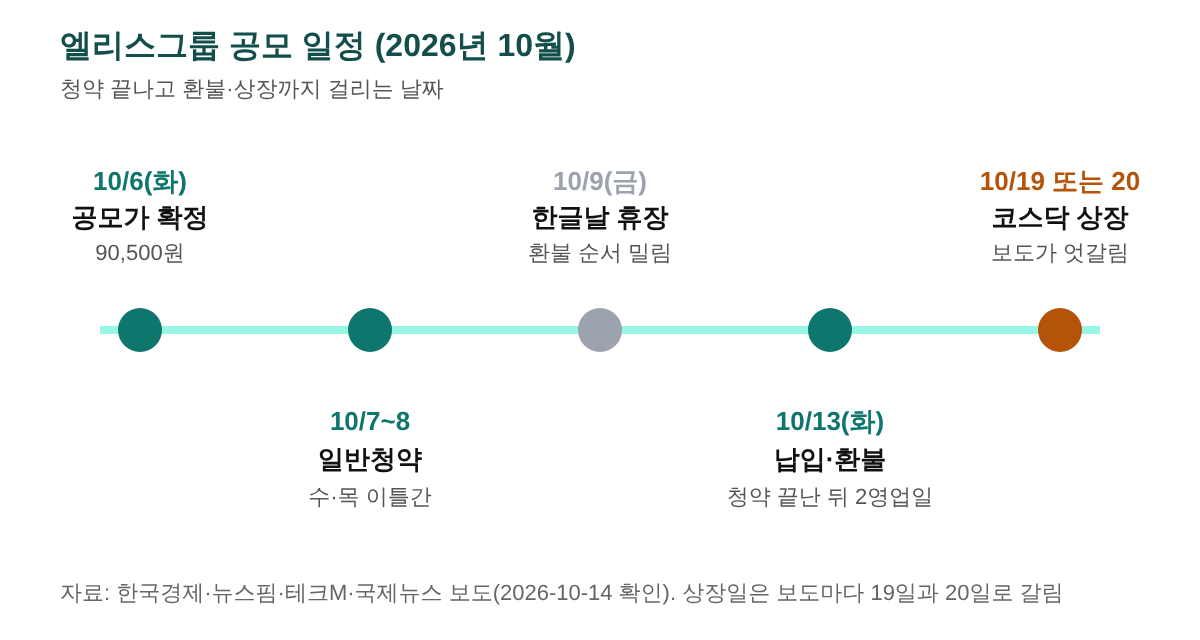
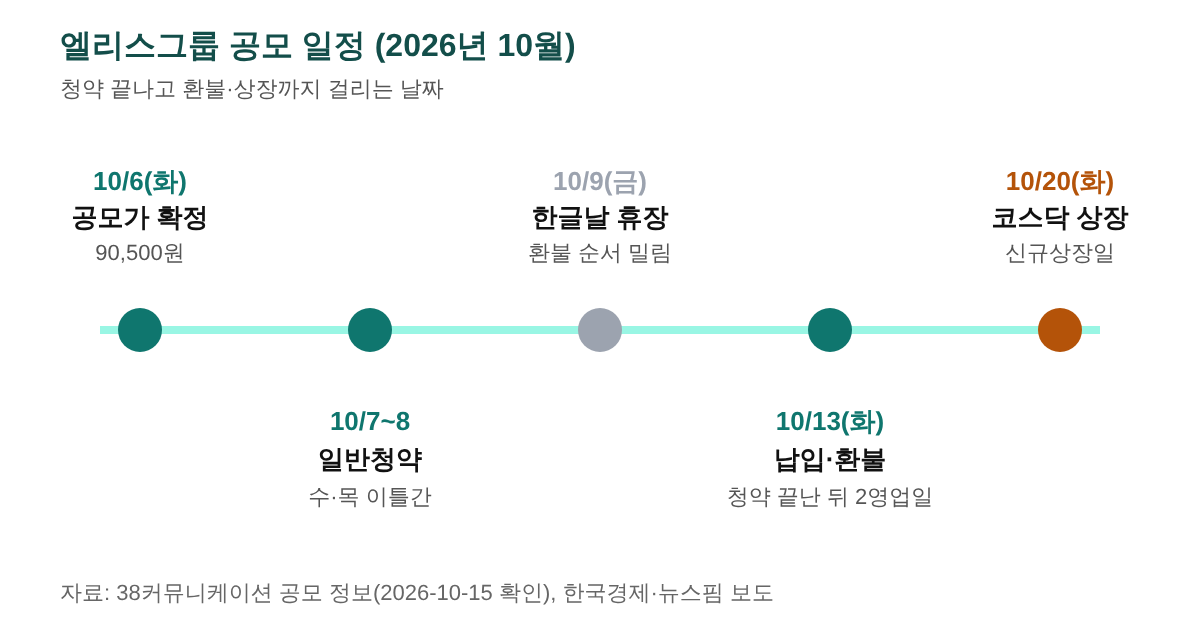
150편 자료 반영: 상장일 10/20 확정, gate_pass:true, 확약 13.7%·공모구조 추가, 그림1 갱신
Claude-Session: https://claude.ai/code/session_01QDoVdBb5L6XnLaVWh6Ynhv

Changed region(s): [[0.0925, 0.9062, 0.8942, 0.9375], [0.8017, 0.25, 0.9558, 0.3125], [0.8325, 0.375, 0.9558, 0.4062]]

diff --git a/stock_drafts/ellis-group-ipo-subscription-result.md b/stock_drafts/ellis-group-ipo-subscription-result.md
@@ -23,32 +23,21 @@ primary_source: |
   - 일반청약 408대 1, 증거금 약 10조2,599억원(보도에 따라 10조3,000억원 반올림), 배정 물량 555,500주에 청약 2억2,673만7,440주: 뉴스프라임·뉴스핌·디지털데일리 계열 일치. 408은 2억2,673만7,440 ÷ 55만5,500 = 408.2로 검산됨.
   - 증권사별 청약 건수 미래에셋 229,879건·삼성 59,539건, 균등 예상 0.97주·0.93주: CBC뉴스 청약 2일차 마감 기사 단일 출처(원문 미열람, 검색 요약). 합계 289,418건이 "약 29만 건" 보도와 일치.
   - 납입·환불 10월 13일: 국제뉴스·검색 요약 다수 일치.
-  - 상장일: 한국경제·국제뉴스 등은 10월 19일, 테크M·뉴스토마토 등은 10월 20일로 엇갈림. 확정 못 함(user_todo).
+  - 상장일: 언론은 19일(한국경제·국제뉴스)과 20일(테크M·뉴스토마토)로 갈렸으나, 사용자가 올린 38커뮤니케이션 화면 캡처(2026-10-15)에서 신규상장일 2026.10.20, 납입일·환불일·배정공고일 2026.10.13, 수요예측 9/23~10/1, 청약 10/7~8, 총공모 2,222,000주(기관 75% 1,666,500주 / 일반 25% 555,500주), 일반청약 증거금율 50%, 기관경쟁률 388.84:1, 의무보유확약 13.70%를 확인함. 최소 청약 주수 칸은 '-'로 비어 있어 본문에서 쓰지 않음.
   - 신규상장 첫날 60~400%: 뉴스핌·경향신문·SBS Biz 등 다수 일치(10월 4일자 초안 검증값 재사용, 2023-06-26 시행). 증거금률 50%와 균등 50% 이상 규칙: 공모주 청약 증거금 글의 검증값 재사용.
   - 비례 경쟁률 약 816대 1: 38커뮤니케이션 표기 816:1과, 청약 주식 수÷비례 물량(555,500주의 50%)으로 직접 계산한 816.3이 일치.
-  - 최소 청약 주수·최소 증거금은 보도가 엇갈려(CBC 제목 최소 증거금 90만5000원 / 기존 정리 10주 45만2,500원) 본문에서 단정하지 않음.
-기준일: 2026년 10월 14일 기준
+  - 최소 청약 주수·최소 증거금은 38커뮤니케이션 표에 값이 없고 보도도 엇갈려 본문에서 단정하지 않음(20주 이상 계산은 예시 주수일 뿐).
+기준일: 2026년 10월 15일 기준
 refresh_due: 2026-10-21
-refresh_reason: "상장일(10/19 또는 20) 이후 첫날 시초가·종가 결과로 글을 바꿔야 함. 상장 전 문구가 지나면 틀림."
+refresh_reason: "상장일(10/20) 이후 첫날 시초가·종가 결과로 글을 바꿔야 함. 상장 전 문구가 지나면 틀림."
 tags: 엘리스그룹 공모주, 엘리스그룹 청약, 엘리스그룹 상장일, 엘리스그룹 환불일, 엘리스그룹 공모가, 공모주 균등배정, 공모주 비례배정, 청약증거금 계산, 코스닥 신규상장, 2026 공모주
-gate_pass: false
+gate_pass: true
 gate_pass_note: |
-  게이트1 49,100회, 게이트2 v4 통과, 게이트3 증거금·배정 계산표와 그림 2장 확보. 게이트4에서 상장일이 언론 사이에 10월 19일과 20일로 엇갈려(양쪽 모두 복수 매체) 확정하지 못했다. 최소 청약 주수도 보도가 갈린다. 상장일은 이 글의 핵심 날짜라 단정하지 않고 보류한다.
-user_todo:
-  why: 엘리스그룹 상장일이 기사마다 10월 19일과 20일로 달라 어느 쪽이 맞는지 정하지 못했습니다. 최소 청약 주수도 보도가 갈립니다.
-  steps:
-    - "https://www.38.co.kr/html/fund/?o=v&no=2316 열기 → 화면 중간 '공모청약일정' 표에서 '신규상장일' 줄 찾기 → 그 표 전체를 캡처"
-    - "같은 화면 아래쪽 '청약정보'에서 '최소청약주식수'와 '청약증거금율' 줄이 함께 보이게 캡처(한 장에 안 들어가면 두 장)"
-  must_show:
-    - "신규상장일 날짜(19일인지 20일인지)"
-    - "최소청약주식수와 청약증거금율(50%)"
-  minutes: 3
-  device: 휴대폰 가능
-  if_skipped: 안 하면 발행하지 못합니다. 급하면 상장일을 '19일 또는 20일'로 쓴 채 최소 청약 주수 문장만 빼고 발행할 수 있지만, 상장일이 지나면 어차피 갱신이 필요합니다.
+  게이트1 49,100회, 게이트2 v4 통과, 게이트3 증거금·배정 계산표와 그림 2장, 게이트4는 사용자가 올린 38커뮤니케이션 캡처(2026-10-15)로 상장일 10월 20일과 환불일 10월 13일을 확정했다. 언론 사이에 갈렸던 19일 표기는 폐기. 증권사별 청약 건수·균등 주수는 CBC뉴스 단일 출처이므로 발행 전 증권사 앱 공지와 대조하면 좋다(선택).
 figure_plan: |
   2장. 그림1은 청약부터 상장까지 날짜 순서(일정), 그림2는 증권사별 청약 건수와 균등 배정 주수 비교(크기 비교). 증거금·비례 배정 계산은 숫자를 정확히 읽어야 해서 표로 둠.
 self_check: |
-  [2026-10-14 gate_pass:false, v3 이슈 유형(4주 안 이벤트: 공모주 청약·상장)]
+  [2026-10-14 작성, 2026-10-15 사용자 38커뮤니케이션 캡처로 gate_pass:true, v3 이슈 유형(4주 안 이벤트: 공모주 청약·상장)]
   후보 경위: 이슈 스캔(10월 공모주, 삼성전자 3분기 확정실적, 금통위) 후 8개 실측: 엘리스그룹 공모주 49,100 / TIGER 미국배당다우존스 27,800(127편이 다룸) / 금통위 일정 2,930(기존 글 있음) / 공모주 청약 일정 1,490 / 연금저축 세액공제 3,260(기존 글과 겹침) / 기준금리 발표일 180·삼성전자 3분기 실적 20·코스피 배당락일 20 FAIL. 최고 검색량이면서 지금 이슈(상장 직전)인 엘리스그룹 채택.
   카니벌라이제이션: 일정표 글(10월 공모주 일정, 아직 발행 전)은 15곳 달력, 이 글은 한 종목 결과와 배정 계산. 증거금 계산 글(44편)은 공식 중심이라 이 글은 실제 경쟁률로 계산. 내부 링크 3개(44·35·18편, 전부 published). 발행 전 글로는 링크하지 않음.
   119편 갱신: 공포탐욕지수 현재 값을 1차 출처로 확인하지 못해(CNN WebFetch 불가, WebSearch에 10월 값 없음) 이번에는 보류. 98편 달러인덱스도 전날 보류 상태 유지.
@@ -60,7 +49,7 @@ self_check: |
   AI 티 점검: em대시 0개, 다만 0회, mark 4개, FAQ 5개(직전 149 5개와 같음 → 한 번 연속, 직전 2편 148이 달라 규칙 충족), FAQ 헤딩 "청약 결과 보고 나서 떠오르는 물음들"(신규), 요약박스 청록 "🔎 결과 숫자부터"(신규).
 ---
 
-<p style="font-size:13px;color:#888;">최종 검토일: 2026-10-14</p>
+<p style="font-size:13px;color:#888;">최종 검토일: 2026-10-15</p>
 
 <p>엘리스그룹 청약에 넣어 두고 결과가 궁금한 분이 많을 텐데요. 일반청약 경쟁률은 408대 1이었고 공모가는 희망 범위 맨 위인 90,500원으로 확정됐어요.</p>
 
@@ -69,7 +58,7 @@ self_check: |
   <ul style="margin:10px 0 0 0;padding-left:20px;line-height:1.8;">
     <li>기관 수요예측은 388.8대 1, 일반청약 증거금은 약 10조 2,599억 원이 몰렸어요.</li>
     <li>균등 배정 예상 주수는 미래에셋증권 0.97주, 삼성증권 0.93주예요.</li>
-    <li>납입과 환불은 10월 13일이고, 상장일은 기사마다 19일과 20일로 갈려요.</li>
+    <li>납입과 환불은 10월 13일, 코스닥 상장은 10월 20일이에요.</li>
   </ul>
 </div>
 
@@ -94,6 +83,8 @@ self_check: |
     <tr><td style="border:1px solid #ddd;padding:8px;">확정 공모가</td><td style="border:1px solid #ddd;padding:8px;">90,500원(희망 범위 70,400~90,500원의 상단)</td></tr>
     <tr><td style="border:1px solid #ddd;padding:8px;">공모금액 / 상장 후 시가총액</td><td style="border:1px solid #ddd;padding:8px;">약 2,011억 원 / 약 1조 54억 원</td></tr>
     <tr><td style="border:1px solid #ddd;padding:8px;">기관 수요예측</td><td style="border:1px solid #ddd;padding:8px;">388.8대 1, 기관 2,367곳 참여</td></tr>
+    <tr><td style="border:1px solid #ddd;padding:8px;">의무보유확약 신청</td><td style="border:1px solid #ddd;padding:8px;">13.70%(<a href="https://www.38.co.kr/html/fund/?o=v&amp;no=2316" target="_blank" rel="noopener">38커뮤니케이션</a> 공모 정보)</td></tr>
+    <tr><td style="border:1px solid #ddd;padding:8px;">총 공모 주식 / 일반청약 배정</td><td style="border:1px solid #ddd;padding:8px;">2,222,000주 / 555,500주(25%)</td></tr>
     <tr><td style="border:1px solid #ddd;padding:8px;">일반청약 경쟁률</td><td style="border:1px solid #ddd;padding:8px;">408대 1</td></tr>
     <tr><td style="border:1px solid #ddd;padding:8px;">일반청약 증거금</td><td style="border:1px solid #ddd;padding:8px;">약 10조 2,599억 원(<a href="https://www.newsprime.co.kr/news/article/?no=750517" target="_blank" rel="noopener">뉴스프라임</a>)</td></tr>
     <tr><td style="border:1px solid #ddd;padding:8px;">청약 건수</td><td style="border:1px solid #ddd;padding:8px;">약 29만 건(미래에셋증권 229,879건 + 삼성증권 59,539건)</td></tr>
@@ -132,7 +123,7 @@ self_check: |
 
 <p>청약 이후에는 납입과 환불, 상장 순서로 진행되고 환불일은 10월 13일이에요. 10월 9일 한글날이 휴장이라 청약이 끝난 8일(목) 뒤 영업일이 12일(월), 13일(화)로 이어졌기 때문이에요.</p>
 
-<figure style="margin:24px 0;"><img src="https://raw.githubusercontent.com/leoleo0813/blog-automation/main/assets/figures/ellis-group-ipo-subscription-result-1.png" alt="엘리스그룹 공모 일정 타임라인. 10월 6일 공모가 확정, 7~8일 일반청약, 9일 한글날 휴장, 13일 납입 환불, 19일 또는 20일 코스닥 상장" style="max-width:100%;"><figcaption style="font-size:13px;color:#888;">자료: 한국경제·뉴스핌·테크M·국제뉴스 보도, 2026년 10월 14일 확인</figcaption></figure>
+<figure style="margin:24px 0;"><img src="https://raw.githubusercontent.com/leoleo0813/blog-automation/main/assets/figures/ellis-group-ipo-subscription-result-1.png" alt="엘리스그룹 공모 일정 타임라인. 10월 6일 공모가 확정, 7~8일 일반청약, 9일 한글날 휴장, 13일 납입 환불, 20일 코스닥 상장" style="max-width:100%;"><figcaption style="font-size:13px;color:#888;">자료: 38커뮤니케이션 공모 정보, 한국경제·뉴스핌 보도, 2026년 10월 15일 기준</figcaption></figure>
 
 <h3>1단계. 배정 결과와 증거금 환불</h3>
 
@@ -140,13 +131,13 @@ self_check: |
 
 <h3>2단계. 상장일 확인</h3>
 
-<p>상장일은 보도가 갈려요. 한국경제와 국제뉴스는 10월 19일, 테크M과 뉴스토마토는 <a href="https://www.techm.kr/news/articleView.html?idxno=155998" target="_blank" rel="noopener">10월 20일</a>이라고 전했어요.</p>
+<p>상장일은 10월 20일(화)이에요. <a href="https://www.38.co.kr/html/fund/?o=v&amp;no=2316" target="_blank" rel="noopener">38커뮤니케이션</a> 공모 정보의 신규상장일 칸과 <a href="https://www.techm.kr/news/articleView.html?idxno=155998" target="_blank" rel="noopener">테크M 보도</a>가 같아요.</p>
 
-<p>환불일에서 영업일 4일을 세면 19일이지만 단정하지 않을게요. 정확한 날짜는 <a href="https://kind.krx.co.kr" target="_blank" rel="noopener">한국거래소 KIND</a>의 공모 일정에서 볼 수 있어요.</p>
+<p>일부 기사에는 19일로 적혀 있었는데 이 글은 20일을 기준으로 해요. 거래소 최종 공지는 <a href="https://kind.krx.co.kr" target="_blank" rel="noopener">한국거래소 KIND</a>에서 볼 수 있어요.</p>
 
 <h3>3단계. 상장 후 매매</h3>
 
-<p>상장하면 코스닥에서 일반 종목처럼 사고팔 수 있고, 의무보유확약이 걸린 기관 물량은 약속한 기간 동안 팔 수 없어요. 확약 제도는 <a href="https://sensitiveboss3.tistory.com/entry/ipo-mandatory-holding-allocation-2026" target="_blank" rel="noopener">IPO와 의무보유확약 글</a>에 정리했어요.</p>
+<p>상장하면 코스닥에서 일반 종목처럼 사고팔 수 있고, 의무보유확약이 걸린 기관 물량은 약속한 기간 동안 팔 수 없어요. 이번 공모의 확약 신청 비율은 13.70%예요. 확약 제도는 <a href="https://sensitiveboss3.tistory.com/entry/ipo-mandatory-holding-allocation-2026" target="_blank" rel="noopener">IPO와 의무보유확약 글</a>에 정리했어요.</p>
 
 <h2 id="sec-4" style="scroll-margin-top:72px;border-left:6px solid #0f766e;padding-left:12px;margin-top:36px;">상장 첫날 가격 범위 계산</h2>
 
@@ -195,8 +186,8 @@ self_check: |
 </details>
 
 <details style="border:1px solid #ddd;border-radius:8px;padding:12px 16px;margin:10px 0;">
-  <summary style="font-weight:bold;cursor:pointer;">엘리스그룹 상장일은 10월 19일인가요 20일인가요</summary>
-  <p style="margin:10px 0 0 0;">보도가 갈려 이 글에서는 확정하지 못했어요. 한국거래소 KIND의 공모 일정에서 최종 날짜를 볼 수 있어요.</p>
+  <summary style="font-weight:bold;cursor:pointer;">엘리스그룹 상장일은 언제인가요</summary>
+  <p style="margin:10px 0 0 0;">10월 20일(화)이에요. 일부 기사에 19일로 적힌 것은 20일이 맞아요. 최종 공지는 한국거래소 KIND에서 볼 수 있어요.</p>
 </details>
 
 <div style="border-top:1px solid #ddd;margin-top:32px;padding-top:12px;font-size:13px;color:#888;">
@@ -210,7 +201,7 @@ self_check: |
     <li><a href="https://www.38.co.kr/html/fund/?o=v&amp;no=2316" target="_blank" rel="noopener">38커뮤니케이션 - 엘리스그룹 공모 정보</a></li>
     <li><a href="https://kind.krx.co.kr" target="_blank" rel="noopener">한국거래소 KIND</a></li>
   </ul>
-  기준일: 2026년 10월 14일. 언론 보도를 교차 확인한 값이며 최종 일정은 한국거래소 공시가 우선합니다.
+  기준일: 2026년 10월 15일. 언론 보도를 교차 확인한 값이며 최종 일정은 한국거래소 공시가 우선합니다.
 </div>
 
 <p style="font-size:13px;color:#777;margin-top:16px;line-height:1.8;">
@@ -233,7 +224,7 @@ self_check: |
     "name": "센시티브보스"
   },
   "datePublished": "2026-10-14",
-  "dateModified": "2026-10-14",
+  "dateModified": "2026-10-15",
   "mainEntityOfPage": {
     "@type": "WebPage",
     "@id": "https://sensitiveboss3.tistory.com/entry/ellis-group-ipo-subscription-result"
@@ -250,7 +241,7 @@ self_check: |
     {"@type": "Question", "name": "엘리스그룹 청약 경쟁률은 몇 대 몇이었나요", "acceptedAnswer": {"@type": "Answer", "text": "일반청약 최종 408대 1이고 청약 증거금은 약 10조 2,599억 원이에요. 기관 수요예측은 388.8대 1이었어요."}},
     {"@type": "Question", "name": "엘리스그룹 환불일은 언제인가요", "acceptedAnswer": {"@type": "Answer", "text": "10월 13일(화)이에요. 한글날 휴장 때문에 청약 종료 뒤 영업일로 세면 13일이 돼요."}},
     {"@type": "Question", "name": "엘리스그룹 균등배정은 몇 주 받나요", "acceptedAnswer": {"@type": "Answer", "text": "증권사 평균으로 미래에셋증권 0.97주, 삼성증권 0.93주라서 추첨으로 1주를 받거나 0주가 돼요. 같은 계좌에서 청약 주수를 늘려도 균등 몫은 같아요."}},
-    {"@type": "Question", "name": "엘리스그룹 상장일은 10월 19일인가요 20일인가요", "acceptedAnswer": {"@type": "Answer", "text": "보도가 갈려 이 글에서는 확정하지 못했어요. 한국거래소 KIND의 공모 일정에서 최종 날짜를 볼 수 있어요."}}
+    {"@type": "Question", "name": "엘리스그룹 상장일은 언제인가요", "acceptedAnswer": {"@type": "Answer", "text": "10월 20일(화)이에요. 일부 기사에 19일로 적힌 것은 20일이 맞아요. 최종 공지는 한국거래소 KIND에서 볼 수 있어요."}}
   ]
 }
 </script>

diff --git a/사용자_할일.md b/사용자_할일.md
@@ -1,6 +1,6 @@
 # 사용자 할 일
 
-마지막 갱신: 2026-10-14 · 보류 6편 · 예상 합계 약 41분
+마지막 갱신: 2026-10-15 · 보류 5편 · 예상 합계 약 38분
 
 **보내는 법(공통):** 캡처한 사진을 Claude 대화창에 올리고 "N편 자료"라고만 적어 주세요.
 사진을 받으면 본문을 고치고 보류를 풀어 드립니다. 위에서부터(검색량 큰 순) 하면 효과가 큽니다.
@@ -61,25 +61,6 @@
 ---
 
 # 2. 발행 보류 글에 필요한 자료
-
-## [ ] 150편 · 엘리스그룹 공모주 청약 결과와 상장일
-월 검색량 49,100 · 약 3분 · 휴대폰 가능
-
-**왜 막혔나:** 엘리스그룹 상장일이 기사마다 10월 19일과 20일로 달라 어느 쪽이 맞는지 정하지 못했습니다. 최소 청약 주수도 보도가 갈립니다.
-
-**할 일**
-1. https://www.38.co.kr/html/fund/?o=v&no=2316 열기 → 화면 중간 '공모청약일정' 표에서 '신규상장일' 줄 찾기 → 그 표 전체를 캡처
-2. 같은 화면 아래쪽 '청약정보'에서 '최소청약주식수'와 '청약증거금율' 줄이 함께 보이게 캡처(한 장에 안 들어가면 두 장)
-
-**캡처에 꼭 보여야 할 것**
-- 신규상장일 날짜(19일인지 20일인지)
-- 최소청약주식수와 청약증거금율(50%)
-
-**안 하면:** 안 하면 발행하지 못합니다. 급하면 상장일을 '19일 또는 20일'로 쓴 채 최소 청약 주수 문장만 빼고 발행할 수 있지만, 상장일이 지나면 어차피 갱신이 필요합니다.
-
-보낼 때: "150편 자료"
-
----
 
 ## [ ] 134편 · 환전 우대율 계산법과 증권사별 차이
 월 검색량 3,490 · 약 5분 · 휴대폰 가능
